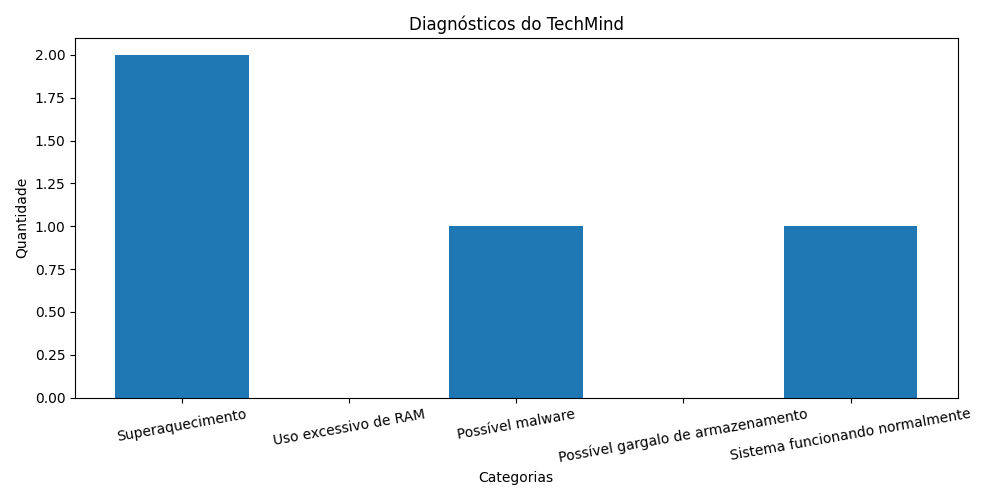
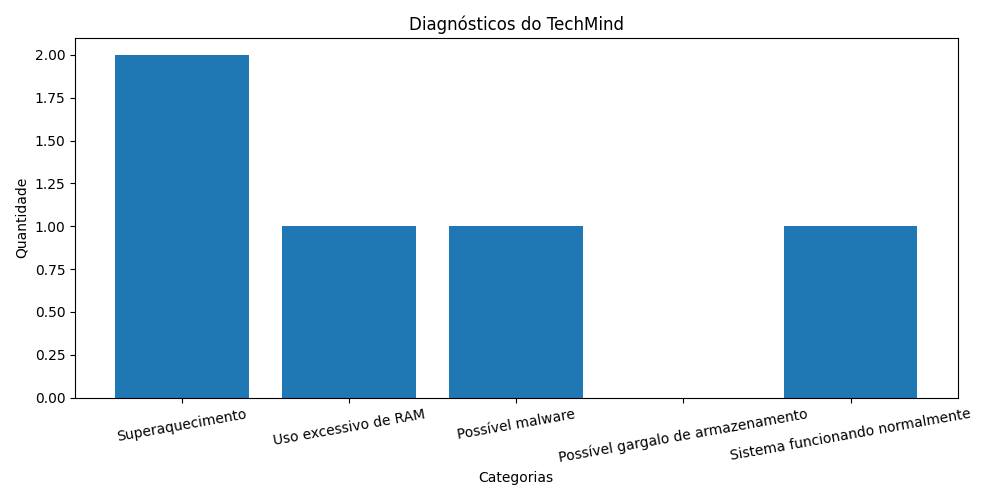
Adicionando requirements

Changed region(s): [[0.279, 0.45, 0.434, 0.81]]

diff --git a/README.MD b/README.MD
@@ -320,6 +320,22 @@ The notebook contains:
 
 ---
 
+## Installation
+
+```bash
+git clone https://github.com/seu-usuario/techmind-ai-agent.git
+
+cd techmind-ai-agent
+
+python -m venv venv
+
+venv\Scripts\activate
+
+pip install -r requirements.txt
+```
+
+---
+
 # 📈 Future Improvements
 
 - Real hardware monitoring